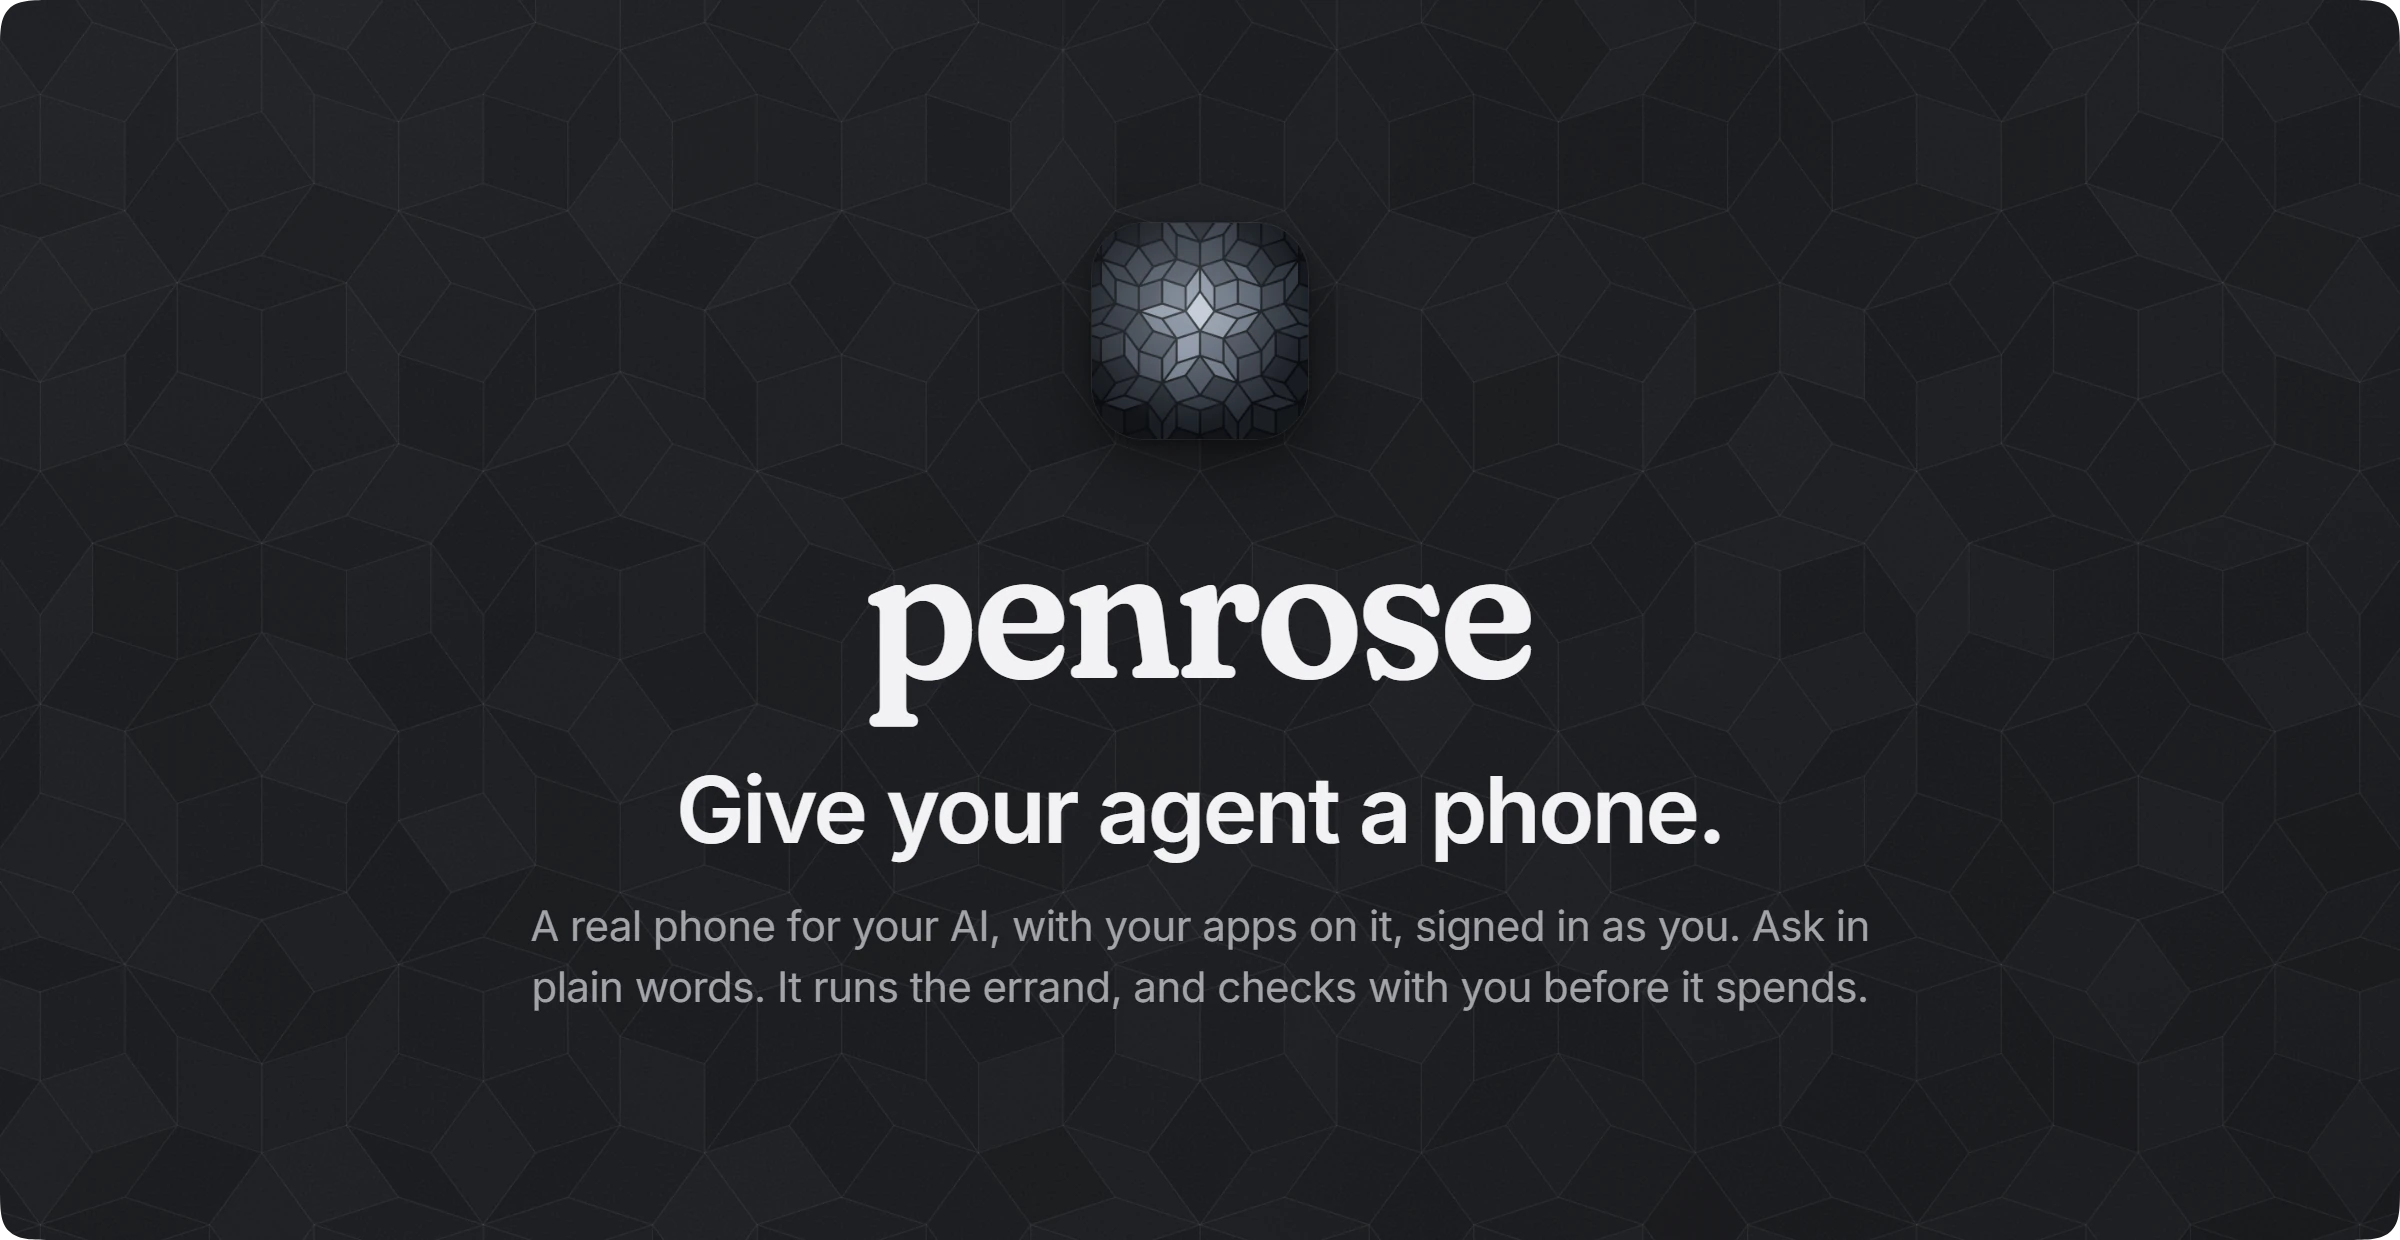
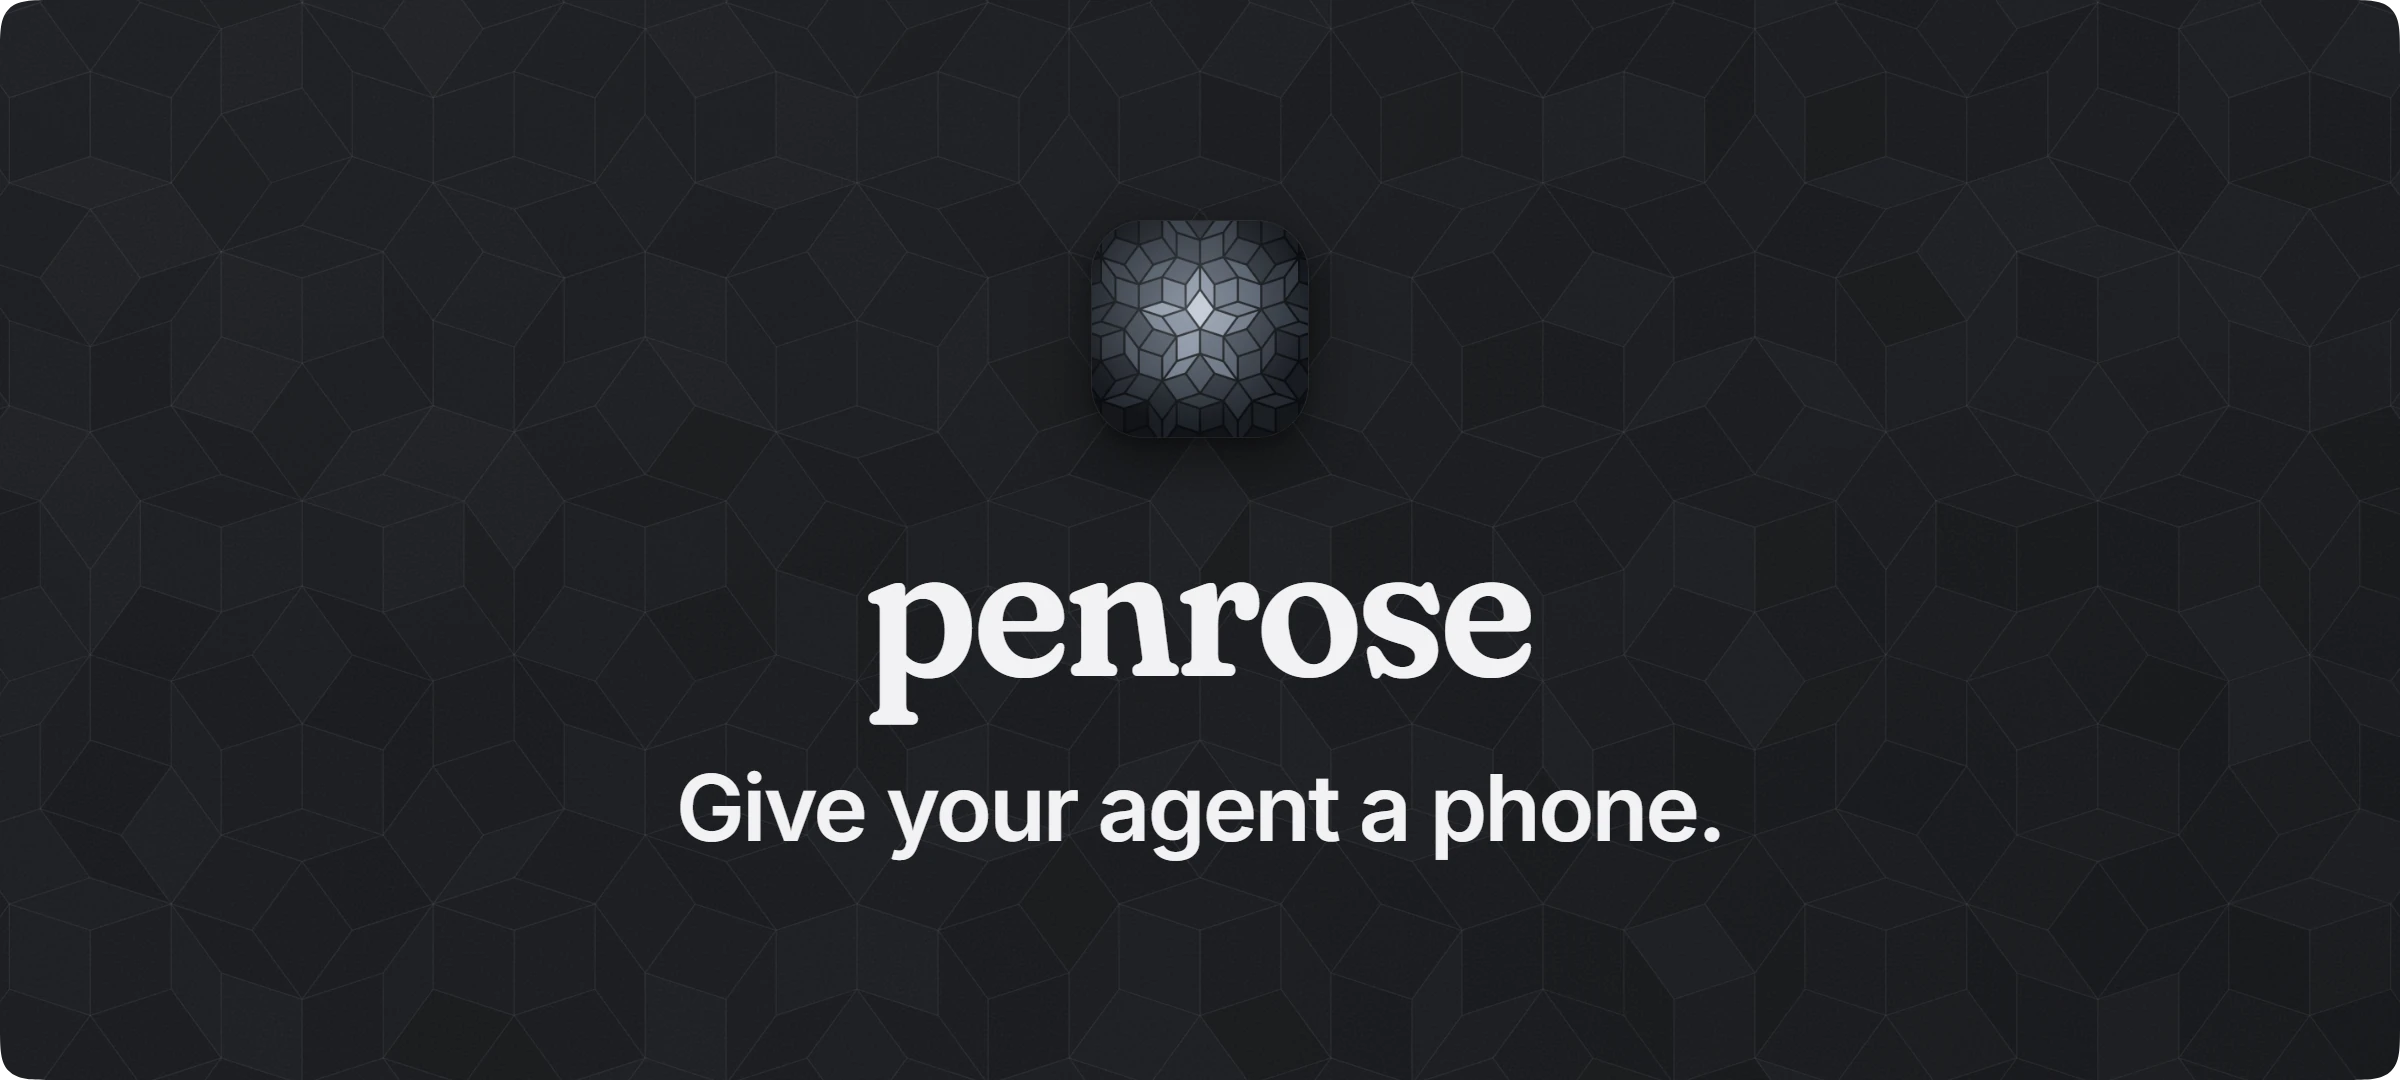
Hero shows only the name and the tagline; a release publishes what was built

Changed region(s): [[0.2188, 0.4583, 0.7812, 0.825], [0.4375, 0.1833, 0.5625, 0.3972]]

diff --git a/docs/readme/src/scenes.html b/docs/readme/src/scenes.html
@@ -47,11 +47,10 @@
   svg.i { width: 22px; height: 22px; fill: none; stroke: currentColor; stroke-width: 1.7; stroke-linecap: round; stroke-linejoin: round; flex: none; }
 
   /* ---------- hero ---------- */
-  #hero { width: 1200px; height: 620px; display: flex; flex-direction: column; align-items: center; justify-content: center; text-align: center; }
+  #hero { width: 1200px; height: 540px; display: flex; flex-direction: column; align-items: center; justify-content: center; text-align: center; }
   #hero .icon { width: 108px; height: 108px; border-radius: 26px; box-shadow: var(--e3); margin-bottom: 30px; }
   #hero .name { font-size: 104px; margin-bottom: 26px; }
-  #hero h1 { font-size: 46px; line-height: 1.1; font-weight: 600; letter-spacing: -0.028em; margin: 0 0 18px; }
-  #hero p { font-size: 21px; line-height: 1.45; margin: 0; max-width: 700px; letter-spacing: -0.012em; }
+  #hero h1 { font-size: 46px; line-height: 1.1; font-weight: 600; letter-spacing: -0.028em; margin: 0; }
 
   /* ---------- the link preview (GitHub's social preview, 1280x640) and the account picture ---------- */
   #social { width: 1280px; height: 640px; display: flex; flex-direction: column; align-items: center; justify-content: center; text-align: center; }
@@ -271,12 +270,10 @@ const LOGO = "../../../desktop/build/logo.png";
 
 const scenes = {
   hero: () => `
-    <div id="hero" class="scene marble rounded" data-tiles="1200x620" data-centre="0.5,0.38">
+    <div id="hero" class="scene marble rounded" data-tiles="1200x540" data-centre="0.5,0.4">
       <img class="icon" src="${LOGO}">
       <div class="wordmark name">penrose</div>
       <h1>Give your agent a phone.</h1>
-      <p class="muted">A real phone for your AI, with your apps on it, signed in as you.
-      Ask in plain words. It runs the errand, and checks with you before it spends.</p>
     </div>`,
 
   social: () => `

diff --git a/docs/readme/src/render.py b/docs/readme/src/render.py
@@ -19,7 +19,7 @@ from PIL import Image
 HERE = Path(__file__).resolve().parent
 OUT = HERE.parent
 SCENES = {  # name: window size in CSS pixels (the picture is cropped to what is drawn)
-    "hero": (1200, 620),
+    "hero": (1200, 540),
     "day": (1200, 560),
     "sees": (1200, 760),
     "ask": (1200, 720),

diff --git a/README.md b/README.md
@@ -1,7 +1,7 @@
 <p align="center">
   <picture>
     <source media="(prefers-color-scheme: dark)" srcset="docs/readme/hero-dark.webp">
-    <img src="docs/readme/hero-light.webp" alt="penrose. Give your agent a phone. A real phone for your AI, with your apps on it, signed in as you. Ask in plain words. It runs the errand, and checks with you before it spends." width="100%">
+    <img src="docs/readme/hero-light.webp" alt="penrose. Give your agent a phone." width="100%">
   </picture>
 </p>
 
